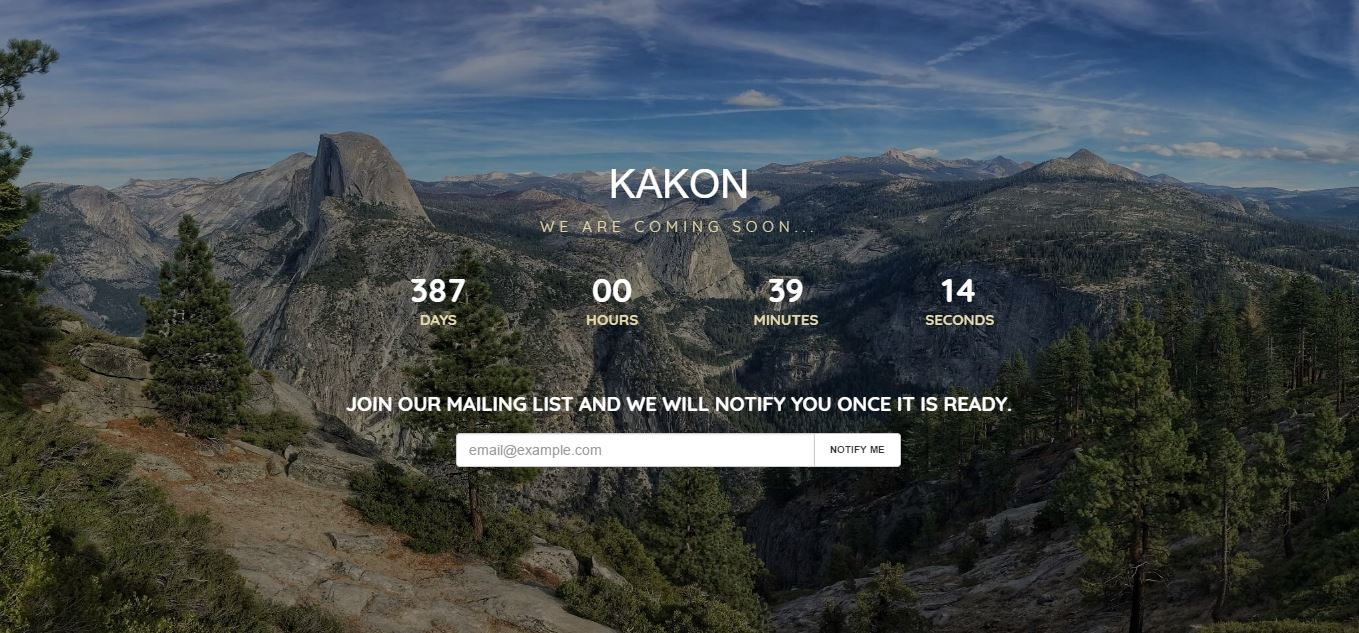
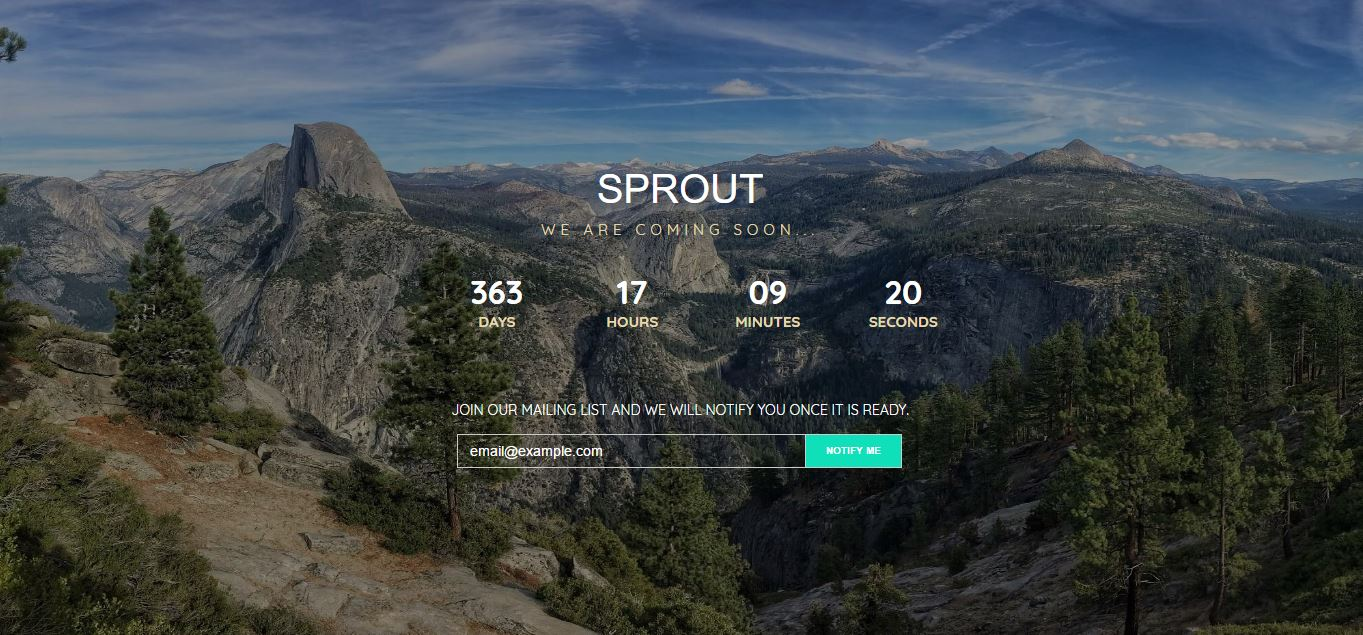
complete

diff --git a/assets/scss/style.scss b/assets/scss/style.scss
@@ -1,8 +1,35 @@
 @import url(https://fonts.googleapis.com/css?family=Quicksand:400,300,700);
+@import "bourbon";
+
+ @include placeholder {
+    color: #fff !important;
+  }
 
 a:hover {
-  text-decoration: none;
+    color: #00c8aa;
+    text-decoration: none;
+    outline: none;
 }
+a {
+    -webkit-transition: all 0.2s cubic-bezier(0.42, 0, 0.58, 1);
+    -moz-transition: all 0.2s cubic-bezier(0.42, 0, 0.58, 1);
+    -ms-transition: all 0.2s cubic-bezier(0.42, 0, 0.58, 1);
+    -o-transition: all 0.2s cubic-bezier(0.42, 0, 0.58, 1);
+    transition: all 0.2s cubic-bezier(0.42, 0, 0.58, 1);
+    cursor: pointer;
+    color: #FFFEBF;
+}
+
+
+
+body {
+  color: #232323;
+  font-family: "Roboto", "Helvetica Neue", "Helvetica", "Arial", "Verdana", "sans-serif";
+  font-size: 15pt;
+  line-height: 1.25;
+  text-align: center;
+  -webkit-font-smoothing: antialiased;
+  -moz-osx-font-smoothing: grayscale; }
 
 body #image-background {
   position: fixed;
@@ -37,7 +64,7 @@ body #video-background {
 
 section ul li {
   display: inline-block;
-  width: 17rem;
+  width: 13rem;
 }
 
 .timenumbers {
@@ -55,7 +82,8 @@ section ul li {
   display: table;
   height: 100vh;
   width: 100%;
-  position: relative;
+  position: absolute;
+  top: 0;
   z-index: 1;
   overflow-x: hidden;
   background: rgba(0, 0, 0, 0.4);
@@ -99,21 +127,29 @@ h1 {
 }
 
 a.notify-me {
-  color: #333;
-  padding: 9px 15px;
+  color: #fff;
+  padding: 9px 20px;
   font-size: 10px;
   font-weight: bolder;
+  background-color: #0fe0ba;
+  border-radius: 0;
+}
+
+input.form-control.notify-me {
+    background: transparent;
+    color: #fff;
+    border-radius: 0;
 }
 
 .subscribe p {
   letter-spacing: 0rem;
-  font-size: 20px;
+  font-size: 14px;
   color: #fff;
-  font-weight: bolder;
+  font-weight: 500;
 }
 
 .subscribe {
-  padding-top: 50px;
+  padding-top: 60px;
   padding-bottom: 20px;
 }
 
@@ -121,6 +157,11 @@ a.notify-me {
   padding-top: 5px;
 }
 
+.form-control:focus {
+    border-color: #ccc;
+    outline: 0;
+    box-shadow: none;
+  }
 .footer {
   position: absolute;
   bottom: 10px;
@@ -293,12 +334,104 @@ a.notify-me {
 .bg {
   position:absolute;
   width: 100%;
-  height: 100%;
+  height: 100vh;
   top: 0;
   left: 0;
-  opacity:0;
+  opacity:1;
   background-size: cover;
   background-repeat: repeat;
   background-position: center center;
   position: relative;
 }
+
+
+
+
+.top-part {
+    padding: 150px 0;
+    /*margin-top: 50px;*/
+    background: #f2f3f7;
+    background: url(../images/header_bg.jpg) top;
+    background-size: cover;
+  }
+.top-part p {
+  color: #fff;
+  font-weight: 400;
+  font-size: 16px;
+  letter-spacing: 0;
+  text-transform: none;
+  }
+
+
+.top-part  h1 {
+    font-size: 70px;
+    line-height: 1;
+    font-weight: 100;
+    margin-bottom: 25px;
+    font-family: 'Quicksand', sans-serif;
+}
+
+.top-part h2 {
+    font-weight: 300;
+    font-size: 30px;
+    margin-bottom: 25px;
+    color: #f2f3f7;
+    font-family: 'Quicksand', sans-serif;
+}
+.alert-banner {
+    background: #2D3037;
+    padding: 15px 0;
+  }
+
+.alert-banner p {
+  font-weight: 700;
+  letter-spacing: 1px;
+}
+.variant-part {
+  padding: 100px 0;
+  background: #FFFFFF; }
+  .variant-part h2 {
+    color: #999999;
+    margin-bottom: 0;
+    font-weight: 400;
+    text-transform: uppercase;
+    letter-spacing: 2px; }
+  .variant-part h3 {
+    color: #666666;
+    letter-spacing: 2px;
+    font-size: 11px;
+    margin: 15px auto 80px;
+    text-transform: uppercase; }
+  .variant-part .variant {
+    margin-bottom: 30px; }
+    .variant-part .variant a img {
+      -webkit-transition: all 0.2s cubic-bezier(0.42, 0, 0.58, 1);
+      -moz-transition: all 0.2s cubic-bezier(0.42, 0, 0.58, 1);
+      -ms-transition: all 0.2s cubic-bezier(0.42, 0, 0.58, 1);
+      -o-transition: all 0.2s cubic-bezier(0.42, 0, 0.58, 1);
+      transition: all 0.2s cubic-bezier(0.42, 0, 0.58, 1); }
+    .variant-part .variant a:hover img {
+      opacity: 0.8; }
+    .variant-part .variant h3 {
+      margin-top: 20px;
+      margin-bottom: 20px;
+      color: #333;
+      font-weight: 400;
+      text-transform: uppercase;
+      font-size: 15px;
+      letter-spacing: 1px; }
+footer {
+  background: #2D3037;
+  padding: 50px 0; }
+footer span.copyright {
+    color: #999999;
+    margin-top: 0;
+    margin-bottom: 0;
+    font-size: 12px;
+    text-transform: uppercase;
+    letter-spacing: 2px;
+    line-height: 19px;
+    font-weight: 400; }
+footer span.copyright a:active, footer span.copyright a:focus {
+    color: #FFFFFF; }
+

diff --git a/assets/js/main.js b/assets/js/main.js
@@ -129,6 +129,8 @@ $(window).scroll(function() {
 
 (function(){
 
+  if(document.getElementById('slideshow')==null) return;
+
 // we set the 'fx' class on the first image when the page loads
   document.getElementById('slideshow').getElementsByTagName('img')[0].className = "fx";
   
